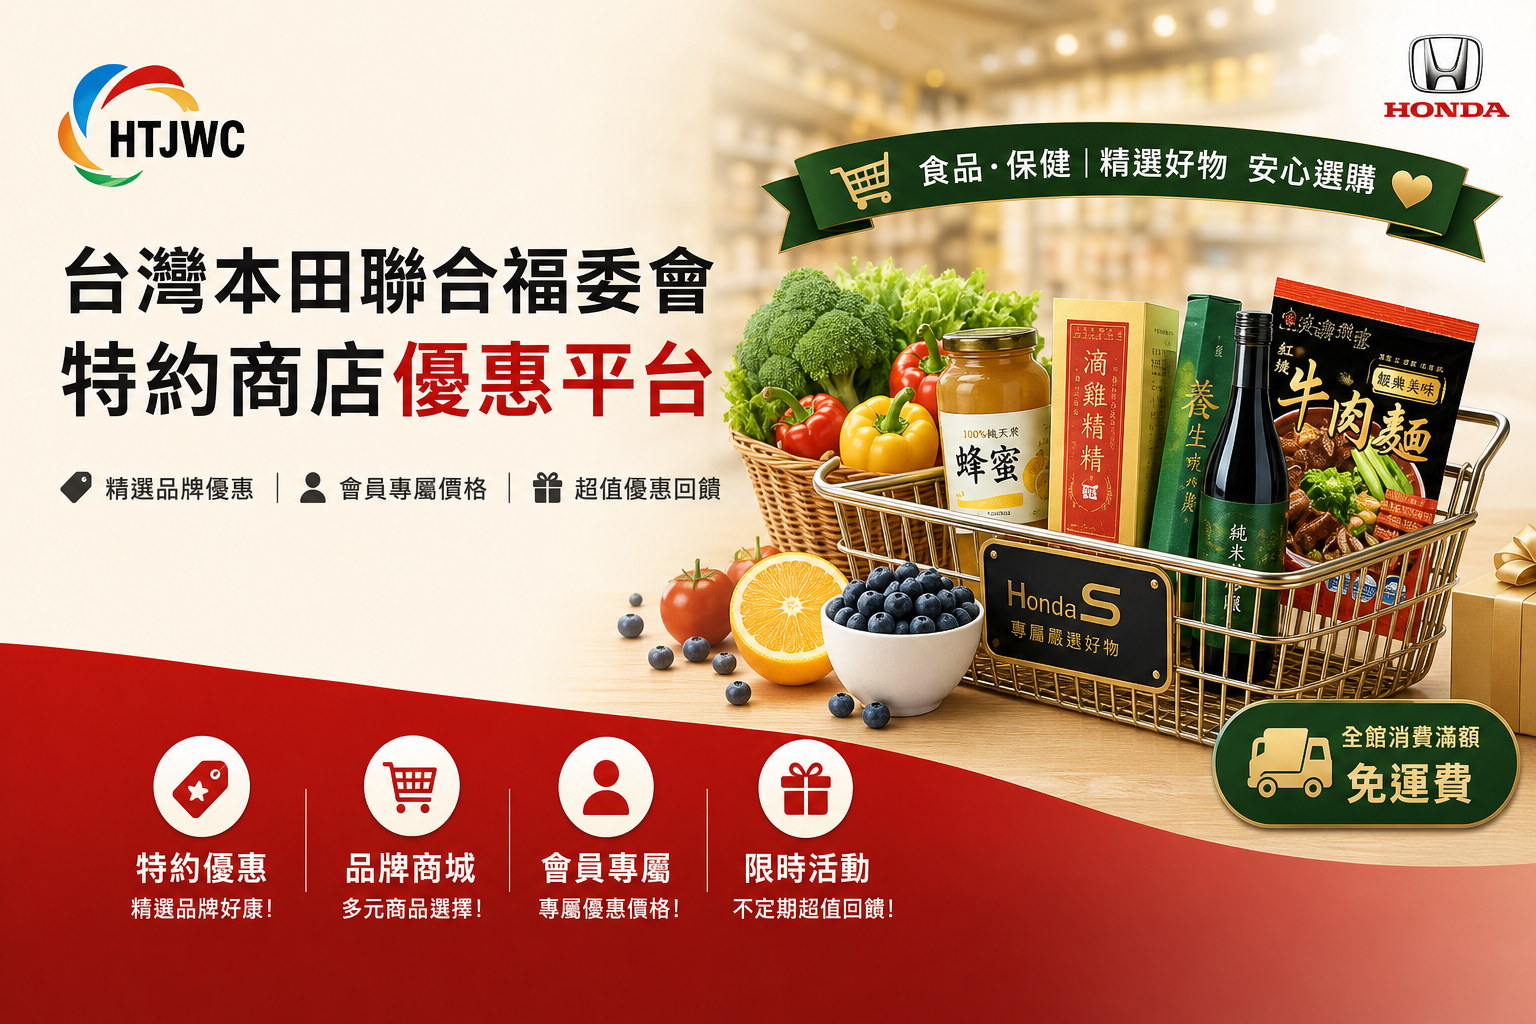
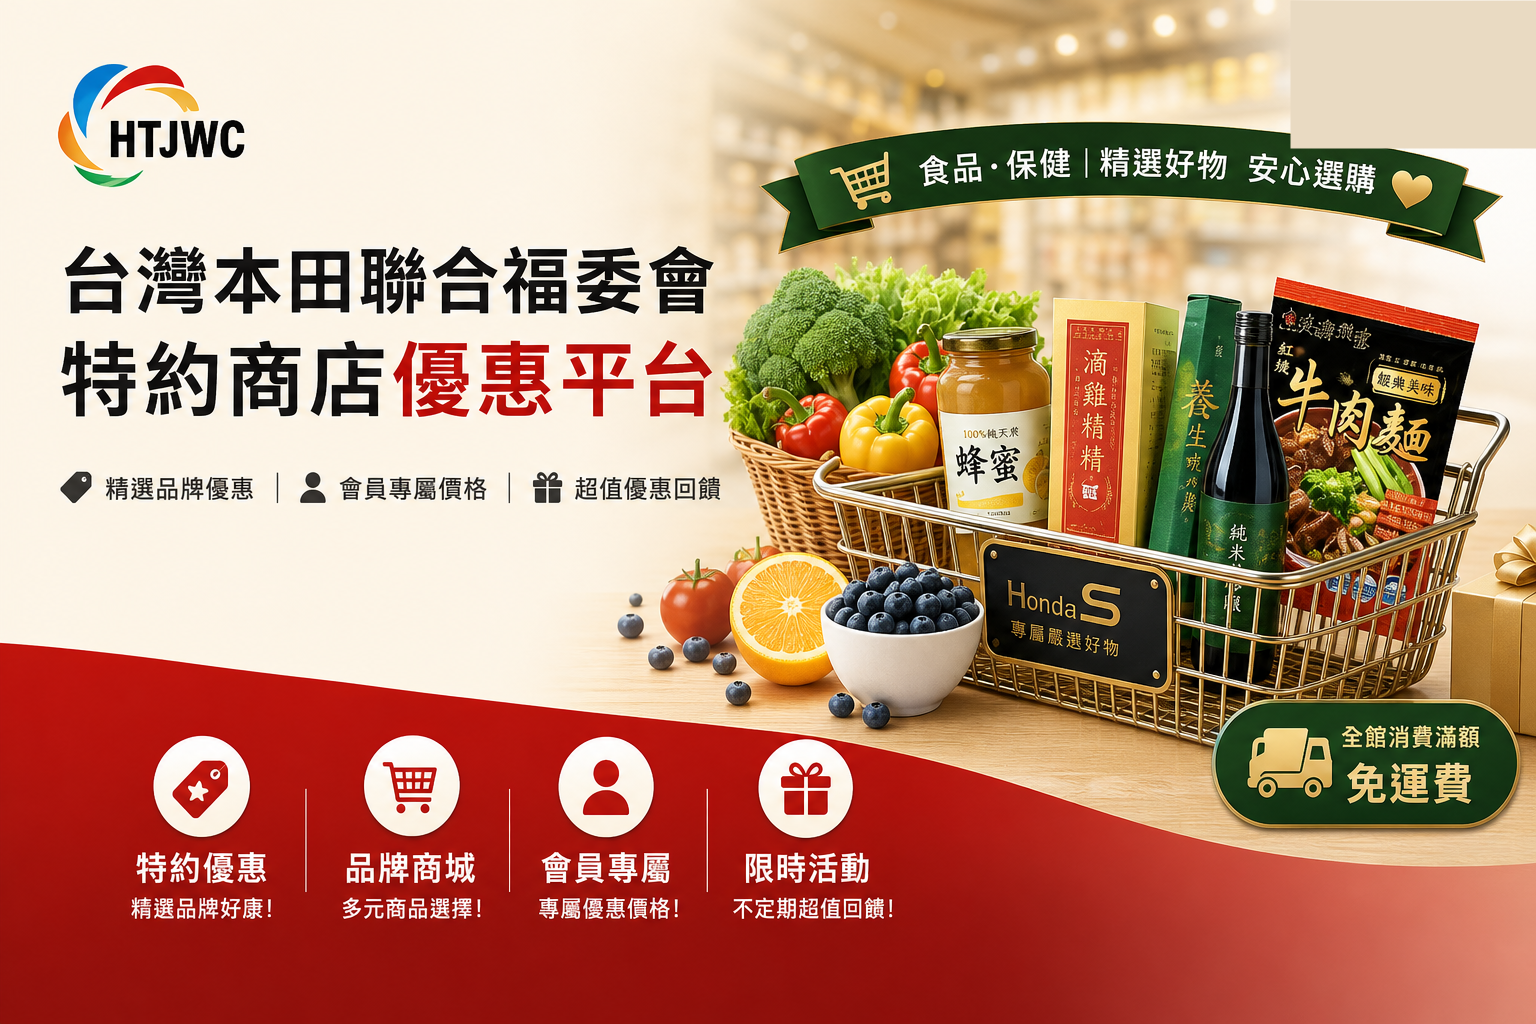
Move Happy Go into a Shopping Mall page after store categories.
Remove the Honda mark from the banner and keep it off the homepage.

Changed region(s): [[0.8438, 0.0, 1.0, 0.1562]]

diff --git a/htjwc.weebly.com/files/site-redesign.js b/htjwc.weebly.com/files/site-redesign.js
@@ -2,6 +2,7 @@
   var NAV = [
     { href: 'index.html', label: '使用說明' },
     { href: '293053200421830242152099839006.html', label: '商店分類' },
+    { href: 'mall.html', label: '購物商城' },
     { href: '2930532004242152347823560236602796321205.html', label: '專屬活動' },
     { href: '229142030925104288582148828771264123000029305320042421523478.html', label: '成為特約店家' },
     { href: 'contact.html', label: 'CONTACT' },
@@ -181,16 +182,9 @@
     var endMark = content.querySelector('img[src*="6-removebg"]');
     if (endMark) endSrc = endMark.getAttribute('src');
 
-    var happyGoHtml =
-      '<a class="home-happygo reveal" href="https://ai4.ysdt.com.tw/htwhappygo" target="_blank" rel="noopener" aria-label="前往本田開心購">' +
-      '<img src="files/honda-happygo-banner.png" alt="台灣本田聯合福委會特約商店優惠平台 — 本田開心購" />' +
-      '<span class="home-happygo-cta">點擊前往<span aria-hidden="true"> →</span></span>' +
-      '</a>';
-
     var shell = document.createElement('div');
     shell.className = 'honda-home';
     shell.innerHTML =
-      happyGoHtml +
       '<section class="home-hero reveal">' +
       '<div class="home-hero-heading">' +
       '<div class="eyebrow">Honda Taiwan Joint Welfare Committee</div>' +
@@ -457,9 +451,28 @@
       });
   }
 
+  function rebuildMallPage() {
+    var page = fileName();
+    if (page !== 'mall.html' && page.indexOf('mall') !== 0) return;
+    if (document.body.getAttribute('data-honda-mall') === '1') return;
+    document.body.setAttribute('data-honda-mall', '1');
+    document.body.classList.add('honda-mall-page');
+
+    var content = document.getElementById('wsite-content');
+    if (!content) return;
+    content.innerHTML =
+      '<div class="mall-page">' +
+      '<a class="home-happygo reveal" href="https://ai4.ysdt.com.tw/htwhappygo" target="_blank" rel="noopener" aria-label="前往本田開心購">' +
+      '<img src="files/honda-happygo-banner.png" alt="台灣本田聯合福委會特約商店優惠平台 — 購物商城" />' +
+      '<span class="home-happygo-cta">點擊前往<span aria-hidden="true"> →</span></span>' +
+      '</a>' +
+      '</div>';
+  }
+
   function enhanceInteriorPages() {
     if (document.body.classList.contains('wsite-page-index')) return;
     if (document.body.classList.contains('honda-events-page')) return;
+    if (document.body.classList.contains('honda-mall-page')) return;
 
     var banner = document.querySelector('.wsite-header-section, .banner-wrap');
     if (banner) banner.classList.add('honda-page-banner');
@@ -511,6 +524,7 @@
     rebuildHome();
     rebuildCategoryHub();
     rebuildEventsPage();
+    rebuildMallPage();
     enhanceInteriorPages();
     observe();
     setTimeout(observe, 700);

diff --git a/htjwc.weebly.com/mall.html b/htjwc.weebly.com/mall.html
@@ -1,0 +1,28 @@
+<!DOCTYPE html>
+<html lang="zh-Hant">
+<head>
+  <meta charset="utf-8" />
+  <meta name="viewport" content="width=device-width, initial-scale=1.0" />
+  <title>購物商城 - 台灣本田聯合福委會 特約商店公佈欄</title>
+  <meta property="og:title" content="購物商城" />
+  <meta property="og:description" content="台灣本田聯合福委會特約商店優惠平台" />
+  <link rel="stylesheet" type="text/css" href="files/main_style828d.css?1779075500" title="wsite-theme-css" />
+  <style id="offline-cleanup">
+    #weebly-footer-signup-container-v3,
+    .wsite-nav-cart,
+    .wsite-com-checkout-cart,
+    #wsite-mini-cart,
+    .wsite-cart,
+    #customer-accounts-app { display: none !important; }
+  </style>
+  <link rel="stylesheet" href="files/site-redesign.css?v=20260814a" />
+  <script defer src="files/site-redesign.js?v=20260814a"></script>
+</head>
+<body class="no-header-page wsite-page-mall wsite-theme-light">
+  <div class="wrapper">
+    <div class="content-wrap">
+      <div id="wsite-content" class="wsite-elements wsite-not-footer"></div>
+    </div>
+  </div>
+</body>
+</html>

diff --git a/htjwc.weebly.com/files/site-redesign.css b/htjwc.weebly.com/files/site-redesign.css
@@ -642,7 +642,20 @@ body.honda-home-page #wsite-content {
   transform: translateY(-1px);
 }
 
-.home-gallery {
+body.honda-mall-page .content-wrap .container,
+body.honda-mall-page #wsite-content {
+  max-width: none !important;
+  padding: 0 !important;
+  width: 100% !important;
+}
+
+.mall-page {
+  padding: 24px 0 80px;
+}
+
+.mall-page .home-happygo {
+  margin: 0 auto;
+}
   width: min(100% - 48px, var(--max));
   margin: 0 auto 64px;
 }
@@ -1431,7 +1444,7 @@ body.honda-events-page .content-wrap {
     width: min(100% - 32px, var(--max));
   }
 
-  .home-happygo {
+  .mall-page .home-happygo {
     width: min(100% - 32px, 760px);
   }
 

diff --git a/htjwc.weebly.com/229142030925104288582148828771264123000029305320042421523478.html b/htjwc.weebly.com/229142030925104288582148828771264123000029305320042421523478.html
@@ -123,8 +123,8 @@ var STYLE_PREFIX = 'wsite';
   .wsite-cart,
   #customer-accounts-app { display: none !important; }
 </style>
-<link rel="stylesheet" href="files/site-redesign.css?v=20260813m" />
-<script defer src="files/site-redesign.js?v=20260813m"></script>
+<link rel="stylesheet" href="files/site-redesign.css?v=20260814a" />
+<script defer src="files/site-redesign.js?v=20260814a"></script>
 </head>
 	<body class="no-header-page  wsite-page-229142030925104288582148828771264123000029305320042421523478 wsite-theme-light"><div class="wrapper">
     <div class="cento-header">
